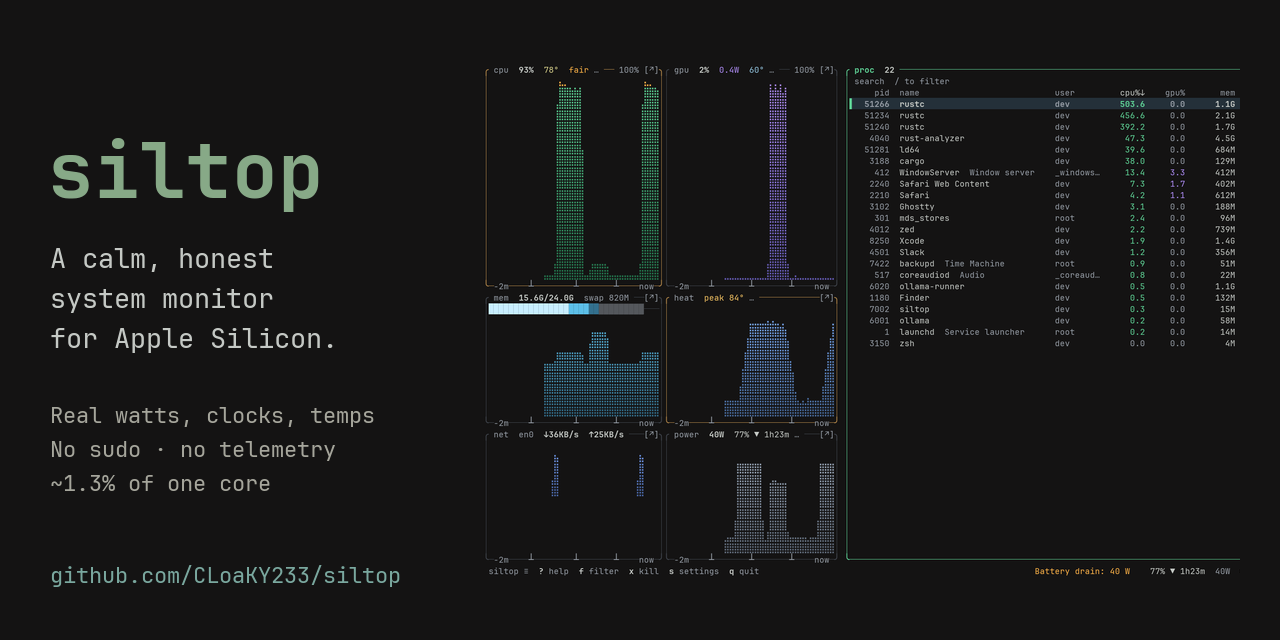
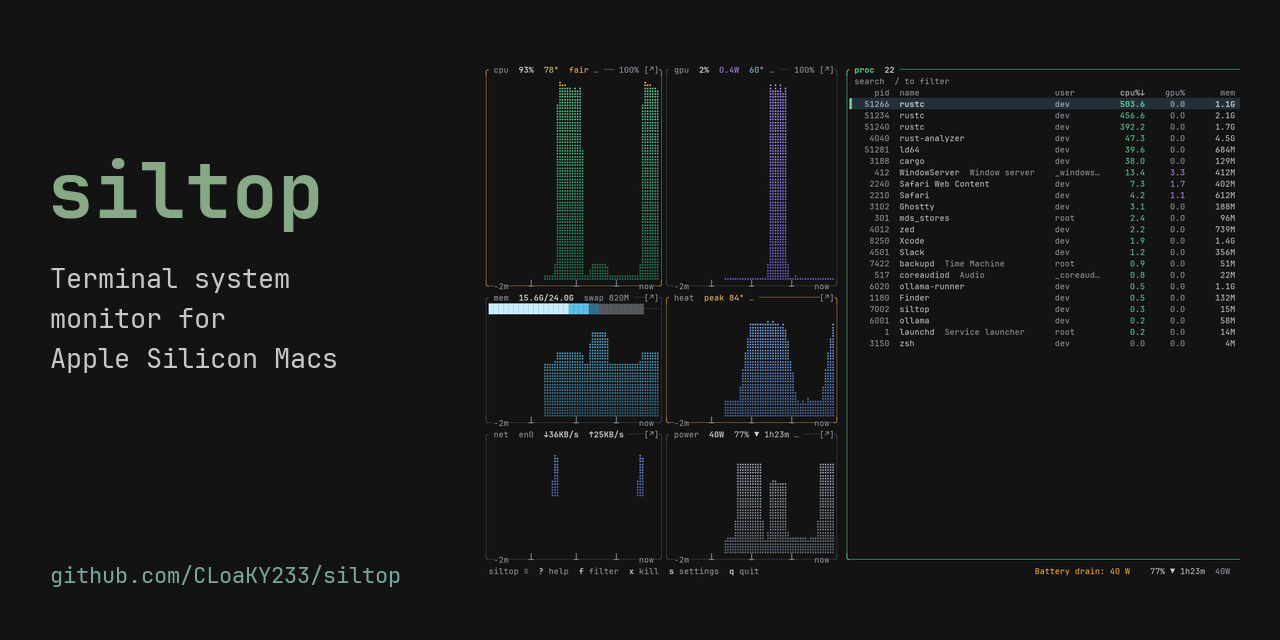
Rewrite the README and help text in plain language.
Drop the slogans and marketing phrasing; describe what siltop reads,
where each reading comes from, how to install it, and its limits.

diff --git a/crates/siltop/src/cli.rs b/crates/siltop/src/cli.rs
@@ -631,7 +631,7 @@ pub fn usage() -> String {
         let line = format!("siltop {} {}", command.name, synopsis_args(command));
         let _ = writeln!(out, "       {}", line.trim_end());
     }
-    out.push_str("\nApple Silicon system monitor. No telemetry, no sudo.\n");
+    out.push_str("\nTerminal system monitor for Apple Silicon Macs.\n");
     let section = |out: &mut String, section: Section| {
         let _ = write!(out, "\n{}:\n", section.title());
         for spec in FLAGS.iter().filter(|spec| spec.section == section) {
@@ -2540,7 +2540,14 @@ mod tests {
     #[test]
     fn readme_keeps_the_privacy_promises() {
         let readme = repo_file("README.md");
-        for promise in ["No network of its own", "No telemetry", "No sudo"] {
+        // The facts behind the privacy section, as the code implements them.
+        for promise in [
+            "## Privacy",
+            "off until you turn it on",
+            "127.0.0.1",
+            "never sent",
+            "do not need root",
+        ] {
             assert!(readme.contains(promise), "{promise}");
         }
     }

diff --git a/crates/siltop/src/man.rs b/crates/siltop/src/man.rs
@@ -124,8 +124,8 @@ pub fn page() -> String {
         ".SH DESCRIPTION\n\
          A live dashboard of CPU (per core), GPU, memory, power, temperatures, \
          fans, network, disks and processes on Apple Silicon Macs. Hardware a \
-         Mac does not have is hidden rather than shown as zero. Everything runs \
-         offline: no network, no telemetry, no sudo. \
+         Mac does not have is hidden rather than shown as zero. It needs no \
+         root, and makes no network request unless update checks are turned on. \
          \\fBsiltop help\\fR \\fICOMMAND\\fR, or \\fICOMMAND\\fR \\fB\\-\\-help\\fR, \
          prints one command's usage and options.\n",
     );

diff --git a/README.md b/README.md
@@ -1,171 +1,163 @@
-<h1 align="center">siltop</h1>
+# siltop
 
-<p align="center">
-  <b>A calm, honest system monitor for Apple Silicon, in the terminal you already live in.</b><br>
-  Real watts, real clocks and real temperatures from every M1–M5 chip. No sudo, no telemetry, about 1.3% of one core.
-</p>
+[![CI](https://github.com/CLoaKY233/siltop/actions/workflows/ci.yml/badge.svg)](https://github.com/CLoaKY233/siltop/actions/workflows/ci.yml)
+[![Latest release](https://img.shields.io/github/v/release/CLoaKY233/siltop?color=4c8)](https://github.com/CLoaKY233/siltop/releases/latest)
+[![License: MIT OR Apache-2.0](https://img.shields.io/badge/license-MIT%20OR%20Apache--2.0-blue)](#license)
 
-<p align="center">
-  <a href="https://github.com/CLoaKY233/siltop/actions/workflows/ci.yml"><img src="https://github.com/CLoaKY233/siltop/actions/workflows/ci.yml/badge.svg" alt="CI"></a>
-  <a href="https://github.com/CLoaKY233/siltop/releases/latest"><img src="https://img.shields.io/github/v/release/CLoaKY233/siltop?color=4c8" alt="Latest release"></a>
-  <img src="https://img.shields.io/badge/Apple%20Silicon-M1%E2%80%93M5-333" alt="Apple Silicon M1 to M5">
-  <a href="#license"><img src="https://img.shields.io/badge/license-MIT%20OR%20Apache--2.0-blue" alt="License: MIT OR Apache-2.0"></a>
-</p>
+A terminal system monitor for Apple Silicon Macs (M1 to M5). It shows CPU, GPU, memory,
+power, temperatures, fans, network, disk and a process table. Power and clock readings come
+from the SMC and IOReport and do not need root.
 
 ![siltop during a build: CPU, GPU, memory, heat, network and power beside the process table](docs/media/hero-dark.png)
 
 <p align="center">
-  <img src="docs/media/glance.png" width="49%" alt="The Glance surface during a GPU inference spike">
+  <img src="docs/media/glance.png" width="49%" alt="The compact Glance view">
   <img src="docs/media/hero-light.png" width="49%" alt="siltop on a light terminal">
 </p>
 
-<sub>Screenshots come from `siltop --demo`, a canned 60-second session (build burst, GPU inference, battery drain, rising heat), so they look the same on every Mac.</sub>
+The screenshots are from `siltop --demo`, which plays a recorded 60-second session.
 
-## Why another monitor?
+## What it reads
 
-`btop` is beautiful, but on a Mac it can't see the chip: no watts, no GPU, no cluster clocks. `asitop` and `powermetrics` see the chip but need `sudo`. `macmon` is lean but stops at the SoC. siltop sits in between: **as clean as you want by default, as deep as you need when something is wrong.**
+| Reading | Source |
+| --- | --- |
+| CPU load per cluster (Efficiency, Performance, Super) | Mach host statistics |
+| CPU and GPU clocks | IOReport residency |
+| CPU, GPU, ANE and DRAM power | IOReport energy counters |
+| System power, temperatures, fans | SMC |
+| Memory, swap, memory pressure | `sysctl`, Mach VM statistics |
+| Battery charge, health, cycles, adapter | IOKit power sources |
+| Processes: CPU, footprint memory, energy, GPU, disk | `proc_pid_rusage`, `sysctl` kinfo |
 
-|                                         | siltop | btop | macmon | asitop |
-| --------------------------------------- | :----: | :--: | :----: | :----: |
-| CPU / GPU / ANE / DRAM watts             | ✓ | — | ✓ | ✓ |
-| Per-cluster clocks (E / P / Super cores) | ✓ | — | ✓ | ✓ |
-| Temperatures and fans                    | ✓ | CPU temp | temps | — |
-| Per-process energy and GPU               | ✓ | — | — | — |
-| Full process manager (tree, signals, filter) | ✓ | ✓ | — | — |
-| Runs without `sudo`                      | ✓ | ✓ | ✓ | — |
-| Machine-readable output                  | JSON / NDJSON / Prometheus / CSV | — | JSON | — |
+Things a Mac does not have are left out: Airs have no fan readings, desktops have no battery.
+Values macOS will not give to a normal user, such as other users' process memory, show as `—`.
 
-<sub>Self-cost was measured back to back with btop and macmon on the same machine; the method and raw numbers are in [docs/research/12-self-cost.md](docs/research/12-self-cost.md).</sub>
+On macOS 27 some IOReport power counters only update every few seconds. siltop shows the last
+real reading with its age (`≈ 4s`) instead of reporting 0 W in between.
 
-## Highlights
+### Compared with similar tools
 
-**Truth**
-- Numbers come straight from macOS: the SMC for fans, temperatures and system power, `IOReport` for CPU and GPU clocks and energy, Mach and `sysctl` for CPU, memory and processes. No `ps`, no `powermetrics`, no scraping.
-- A reading the Mac doesn't give is shown as absent, never as a made-up `0`. Fanless Airs show no fans, desktops show no battery, a process the kernel won't describe shows `—`.
-- A one-line verdict (`All normal`, `Busy: rustc using 9.1 cores`, `Hot: fans at 80%`) with the evidence behind it.
+|                                          | siltop | btop | macmon | asitop |
+| ---------------------------------------- | :----: | :--: | :----: | :----: |
+| CPU / GPU / ANE / DRAM power             | yes | no | yes | yes |
+| Per-cluster clocks                       | yes | no | yes | yes |
+| Temperatures and fans                    | yes | CPU temp | temps | no |
+| Per-process energy and GPU               | yes | no | no | no |
+| Process tree, filter, signals            | yes | yes | no | no |
+| Runs without `sudo`                      | yes | yes | yes | no |
+| Machine-readable output                  | JSON, NDJSON, Prometheus, CSV | no | JSON | no |
 
-**Speed**
-- About 1.3% of one core at a 1 s interval, half of what btop costs at the same rate (2.5%) and on par with macmon (1.4%), measured back to back on an M5 Pro. It only redraws when something changed, and pausing (`p`) stops sampling entirely.
-- One native binary of about 3 MB, written in Rust. Starts instantly.
-
-**Beauty**
-- Braille graphs on one shared, time-linear clock, so every panel lines up; `z` zooms time.
-- Themes built from your terminal's own palette, readable on translucent and blurred windows. Ten built-in themes plus a theme pack, btop theme import, and 256-colour, 16-colour and `NO_COLOR` fallbacks.
-- Two surfaces: **Work** for digging in, **Glance** for a small always-on window. The layout adapts from 80×24 up. Five presets on `1`–`5` and a zen mode (`Z`) that leaves only the graphs.
-
-**Control**
-- A process table with live filter, sort by any column, tree, app grouping and a details card (threads, open files, ports) with a signal picker, renice and background QoS. A kill is refused if the pid was reused since you chose it.
-- Full mouse support, htop and btop key profiles, a searchable settings page, and a config file that keeps your comments.
-
-**Beyond the dashboard**
-- `--json` / `--json-stream` for scripts and status bars, `siltop line` for tmux and SketchyBar, alerts with shell hooks, a timeline with reports, session record/replay, a Prometheus endpoint, a sustained-performance bench and a multi-Mac fleet view.
+Measured on an M5 Pro at a 1 s interval, siltop uses about 1.3% of one CPU core, btop about
+2.5% and macmon about 1.4%. Method and raw numbers:
+[docs/research/12-self-cost.md](docs/research/12-self-cost.md).
 
 ## Install
 
 Requires macOS on Apple Silicon.
 
-**Homebrew**
+Homebrew:
 
 ```sh
 brew install cloaky233/tap/siltop
 ```
 
-**Prebuilt binary** (curl downloads are not quarantined, so it runs straight away)
+Prebuilt binary, into `~/.local/bin`:
 
 ```sh
 mkdir -p ~/.local/bin && curl -fsSL https://github.com/CLoaKY233/siltop/releases/download/v1.2.1/siltop-v1.2.1-macos-arm64.tar.gz | tar -xz --strip-components 1 -C ~/.local/bin siltop-v1.2.1-macos-arm64/siltop
 ```
 
-Make sure `~/.local/bin` is on your `PATH`. `siltop update --yes` keeps this copy current. Every [release](https://github.com/CLoaKY233/siltop/releases) also has a `.zip` and SHA-256 files. A copy downloaded with a browser is quarantined by macOS and blocked on first run, because it is not notarized. Clear that before running it: `xattr -d com.apple.quarantine siltop`.
+`siltop update --yes` updates a copy installed this way. Each
+[release](https://github.com/CLoaKY233/siltop/releases) also has a `.zip` and SHA-256 files.
+The binary is not notarized, so a copy downloaded with a browser is blocked by macOS until
+you run `xattr -d com.apple.quarantine siltop`.
 
-**From source** (Rust 1.98 or newer)
+From source (Rust 1.98 or newer):
 
 ```sh
 cargo install --git https://github.com/CLoaKY233/siltop --tag v1.2.1 siltop --locked
 ```
 
-Then run `siltop`. Try `siltop --demo` first if you just want to look around.
-
 ## Usage
 
 ```sh
 siltop                                  # the dashboard
-siltop --demo                           # a canned 60 s session, no hardware needed
+siltop --demo                           # a recorded session, no load needed
 siltop -i 1s --theme paper              # sample every second, Paper theme
-siltop --surface glance --no-mouse      # the compact surface
+siltop --surface glance --no-mouse      # the compact view
 siltop --json | jq .cpu.clusters        # one JSON sample (schema 1)
 siltop --json-stream --count 3 -i 500   # NDJSON, one line per interval
-siltop --diagnose                       # "All normal" / "Busy: Safari using 3.1 cores" + evidence
-siltop doctor                           # chip ids, SMC keys, HID sensors, readability, self-cost
+siltop --diagnose                       # the verdict and its evidence
+siltop doctor                           # what this Mac exposes, for bug reports
 siltop line --style tmux                # one status line: "cpu 12% gpu 3% 8.4W 51°C"
-siltop report week --json               # energy by app, peak temps, time spent hot
-siltop agent install                    # alerts in the background, at login
-siltop record --duration 10m            # a crash-tolerant session trace; `siltop replay` plays it
+siltop report week --json               # energy by app, peak temperatures
+siltop agent install                    # alerts from a background LaunchAgent
+siltop record --duration 10m            # record a session; `siltop replay` plays it
 siltop serve                            # Prometheus metrics on 127.0.0.1:9101
-siltop bench --duration 5m              # sustained CPU test: clocks, heat, throttling
-siltop fleet studio mini.local          # this Mac beside two others, over your own ssh
+siltop bench --duration 5m              # sustained CPU load test, reports throttling
+siltop fleet studio mini.local          # several Macs side by side, over ssh
 siltop completions zsh                  # also bash and fish; `siltop man` prints the manual
 ```
 
-The **[user guide](docs/guide.md)** walks through every panel, what the numbers mean, keys, settings, presets, themes, alerts, scripting and troubleshooting. `?` inside the app shows every key; `m` opens the menu; `s` opens settings.
+In the dashboard, `?` lists the keys, `m` opens the menu and `s` opens settings. The bottom
+line shows a short verdict such as `All normal` or `Busy: rustc using 9.1 cores`.
+
+The [user guide](docs/guide.md) covers every panel, the keys, settings, themes, alerts and
+scripting.
 
 ## Configuration
 
-Everything is optional. Settings live in `~/.config/siltop/config.toml` (or under `$XDG_CONFIG_HOME`), are written only when you change something, and keep your comments. The guide lists [every key](docs/guide.md#settings). Useful environment variables:
+Settings are in `~/.config/siltop/config.toml` (or under `$XDG_CONFIG_HOME`). The file is
+only written when you change a setting, and comments you add are kept. Environment variables:
 
 | Variable | Effect |
 | --- | --- |
-| `SILTOP_THEME=<name>` | Use that theme. `auto` (the default) reads the terminal. |
+| `SILTOP_THEME=<name>` | Theme. `auto` (the default) builds one from the terminal's colours. |
 | `SILTOP_KEYS=htop\|btop` | htop or btop key layout |
 | `SILTOP_COLORS=truecolor\|256\|16\|none` | Override the colour-depth guess |
 | `SILTOP_ICONS=nerd` | Nerd Font icons in panel titles |
-| `SILTOP_NO_UPDATE_CHECK=1` | Never run the opt-in daily update check |
-| `NO_COLOR=1` | Attributes only (bold, dim, reverse) |
+| `SILTOP_NO_UPDATE_CHECK=1` | Never run the update check |
+| `NO_COLOR=1` | No colour |
 
 ## Privacy
 
-- **No network of its own.** siltop does not link an HTTP stack. If you opt in to update checks, it runs `/usr/bin/curl` against the GitHub releases API at most once a day and sends only its version in the `User-Agent`. `siltop serve` listens on 127.0.0.1 unless told otherwise; `siltop fleet` runs your own `ssh`.
-- **No telemetry.** Nothing about you or your Mac is collected or sent. Crash files stay on your Mac.
-- **No sudo.** Every reading comes from APIs a normal user may call. What the kernel withholds (other users' processes) is shown as `—`, not guessed.
+siltop sends nothing anywhere by default. The only network request is an update check
+against the GitHub releases API, which is off until you turn it on; it runs `/usr/bin/curl` at
+most once a day and sends only the version number in the User-Agent. `siltop serve` listens on
+127.0.0.1 unless you pass `--addr`, and `siltop fleet` uses your own `ssh`. Crash reports are
+written to disk and never sent.
 
 ## FAQ
 
-**Why do some processes show `—`?**
-macOS only lets you read CPU, memory and energy for your own processes. Rows owned by other users keep their name and pid, but the kernel refuses the rest, so siltop shows `—` rather than a made-up `0`. Their CPU is still counted in the machine total.
-
-**Why does a watt figure sometimes show `≈` and an age?**
-Some power rails publish in batches, not every sample. Between publications siltop holds the last measured value and marks it `≈` with its age instead of inventing a number or dropping to zero.
-
 **Why does my CPU read lower than Activity Monitor's?**
-The graph is frequency-weighted: a core busy at half its top clock counts as half busy, so it shows how much of the chip's real capacity is in use. Cluster rows show both the busy share and the clock.
+The CPU graph weights load by clock speed: a core busy at half its top clock counts as half
+busy. The cluster rows show the plain busy share and the clock separately.
 
 **Intel Macs, Linux?**
-No. siltop is built around Apple Silicon APIs. Other platforms compile (the collectors are stubbed out) but sample nothing.
+No. siltop uses Apple Silicon APIs. It compiles on other platforms but reads nothing there.
 
 ## How it works
 
-Four crates with a strict dependency direction (core ← {metrics, ui} ← bin):
+Four crates, dependencies pointing one way (core ← metrics, ui ← bin):
 
-| Crate | Role |
+| Crate | Contents |
 | --- | --- |
 | [`siltop-core`](crates/siltop-core) | Snapshot types, history store, config, verdicts |
-| [`siltop-metrics`](crates/siltop-metrics) | Collectors (SMC, IOReport, IOHID, Mach, sysctl) and the sampler. No UI types |
-| [`siltop-ui`](crates/siltop-ui) | Themes, braille graphs, layout, widgets. No metrics imports |
-| [`siltop`](crates/siltop) | The binary: event loop, input, CLI, the demo session |
+| [`siltop-metrics`](crates/siltop-metrics) | Collectors (SMC, IOReport, IOHID, Mach, sysctl) and the sampler |
+| [`siltop-ui`](crates/siltop-ui) | Themes, braille graphs, layout, widgets |
+| [`siltop`](crates/siltop) | The binary: event loop, input, CLI, demo session |
 
-Each interval, `Sampler::tick()` on a worker thread builds one immutable `Snapshot`; the UI renders it read-only. See [crates/ARCHITECTURE.md](crates/ARCHITECTURE.md).
-
-[`docs/research/`](docs/research) is a knowledge base on how macOS exposes this data: SMC keys per chip generation, the `IOReport` energy recipe without sudo, process data sources, graph rendering and colour on translucent terminals. If you're writing your own macOS monitor, start there.
+A worker thread builds one `Snapshot` per interval and the UI draws it. Details are in
+[crates/ARCHITECTURE.md](crates/ARCHITECTURE.md). Notes on the macOS APIs (SMC keys per chip,
+reading IOReport energy without root, process data sources) are in
+[docs/research/](docs/research).
 
 ## Contributing
 
-Bug reports with `siltop doctor` output are the most useful thing you can send, especially from a chip or Mac model not covered yet. See [CONTRIBUTING.md](CONTRIBUTING.md) for building, tests and golden screens.
+Bug reports are welcome, especially from chips or Mac models not covered yet. Please include
+the output of `siltop doctor`. [CONTRIBUTING.md](CONTRIBUTING.md) covers building and tests.
 
 ## License
 
-Licensed under either of
-
-- Apache License, Version 2.0 ([LICENSE-APACHE](LICENSE-APACHE))
-- MIT license ([LICENSE-MIT](LICENSE-MIT))
-
-at your option. Copyright © 2026 Lay Sheth.
+MIT or Apache-2.0, at your option ([LICENSE-MIT](LICENSE-MIT), [LICENSE-APACHE](LICENSE-APACHE)).
+Copyright © 2026 Lay Sheth.

diff --git a/CONTRIBUTING.md b/CONTRIBUTING.md
@@ -34,7 +34,7 @@ cargo test --workspace            # plain `cargo test` only covers the binary cr
 - Keep the crate boundaries in [crates/ARCHITECTURE.md](crates/ARCHITECTURE.md): `siltop-metrics` never depends on the UI, and `siltop-ui` never imports the metrics crate.
 - Tests live next to the code in `#[cfg(test)] mod tests`. Tests that touch real hardware must pass on CI machines, which have none: assert invariants, not that a sensor exists.
 - **Golden screens.** `crates/siltop-ui/src/widgets/golden.rs` paints the whole app from a fixed fixture into insta snapshots. Any change that moves a visible cell fails them. Re-bless on purpose (`cargo insta review`, or `INSTA_UPDATE=always cargo test -p siltop-ui golden`) and include the snapshot diff in your PR.
-- Changes to the binary or metrics crates should include before/after `scripts/perf-smoke.py` medians (see [docs/research/12-self-cost.md](docs/research/12-self-cost.md)). A monitor that burns a core is lying about the machine it watches.
+- Changes to the binary or metrics crates should include before/after `scripts/perf-smoke.py` medians (see [docs/research/12-self-cost.md](docs/research/12-self-cost.md)).
 
 ## Licensing of contributions
 

diff --git a/docs/research/12-self-cost.md b/docs/research/12-self-cost.md
@@ -6,7 +6,7 @@
 | **Tool** | [`scripts/perf-smoke.py`](../../scripts/perf-smoke.py) (pty driver shared with [`scripts/pty-shot.py`](../../scripts/pty-shot.py) via `scripts/ptyterm.py`) |
 | **Machine** | MacBook Pro Mac17,8, M5 Pro (6 Super + 12 Performance, 20-core GPU), 24 GB, macOS 27.0, AC power, no sudo |
 
-A system monitor that burns a core is lying about the machine it watches. This page is the method and the numbers: what siltop costs sitting idle in a terminal, what btop and macmon cost on the same machine, and the budget 0.1.0 has to meet. Every workstream that touches the bin or metrics crates re-runs perf-smoke and puts before/after medians in its PR.
+This page is the method and the numbers: what siltop costs sitting idle in a terminal, what btop and macmon cost on the same machine, and the budget 0.1.0 has to meet. Every workstream that touches the bin or metrics crates re-runs perf-smoke and puts before/after medians in its PR.
 
 ---
 

diff --git a/docs/guide.md b/docs/guide.md
@@ -1,8 +1,8 @@
 # The siltop user guide
 
-siltop is a system monitor for Apple Silicon Macs that lives in your terminal. It shows
-what your Mac is doing right now (and what it was doing an hour ago) in a way you
-can read at a glance. This guide takes you from the first launch to scripting it.
+siltop is a terminal system monitor for Apple Silicon Macs. It shows current CPU, GPU,
+memory, power, temperature, network and disk activity, plus history from earlier. This
+guide covers everything from the first launch to scripting.
 
 If you only remember three keys: **`m`** opens the menu, **`?`** lists every key, and
 **`T`** cycles themes. The first launch shows exactly that hint in the footer when the
